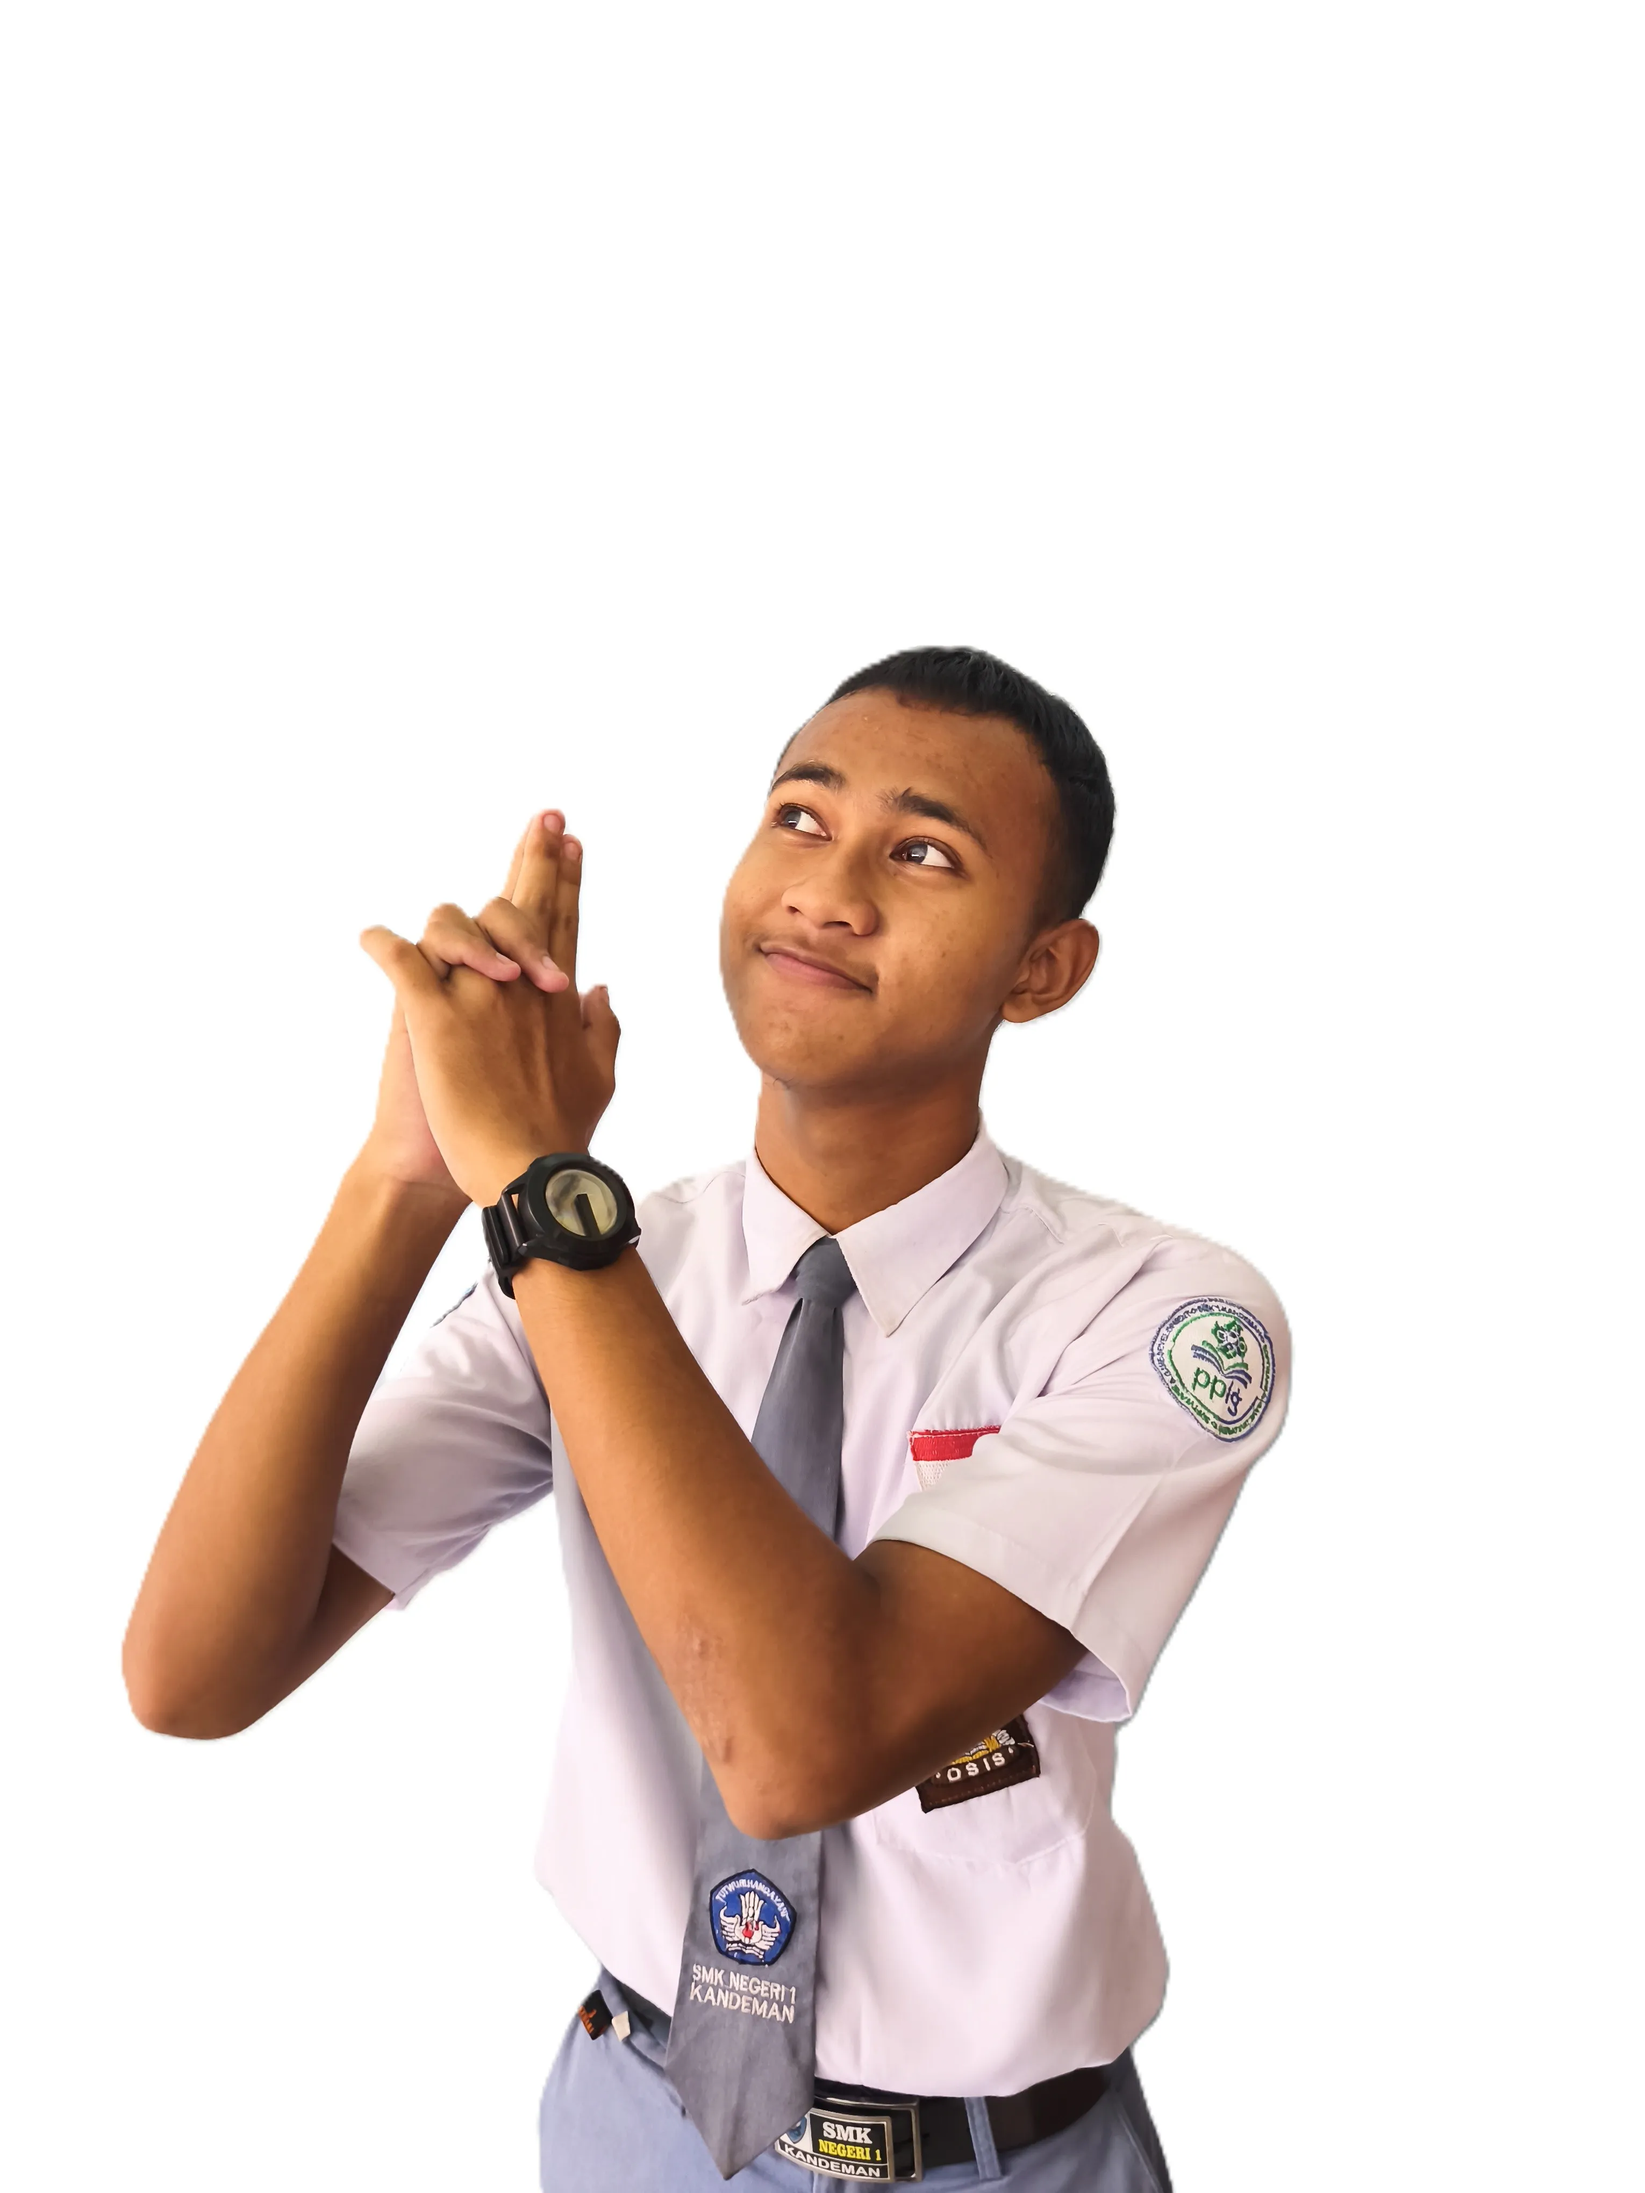
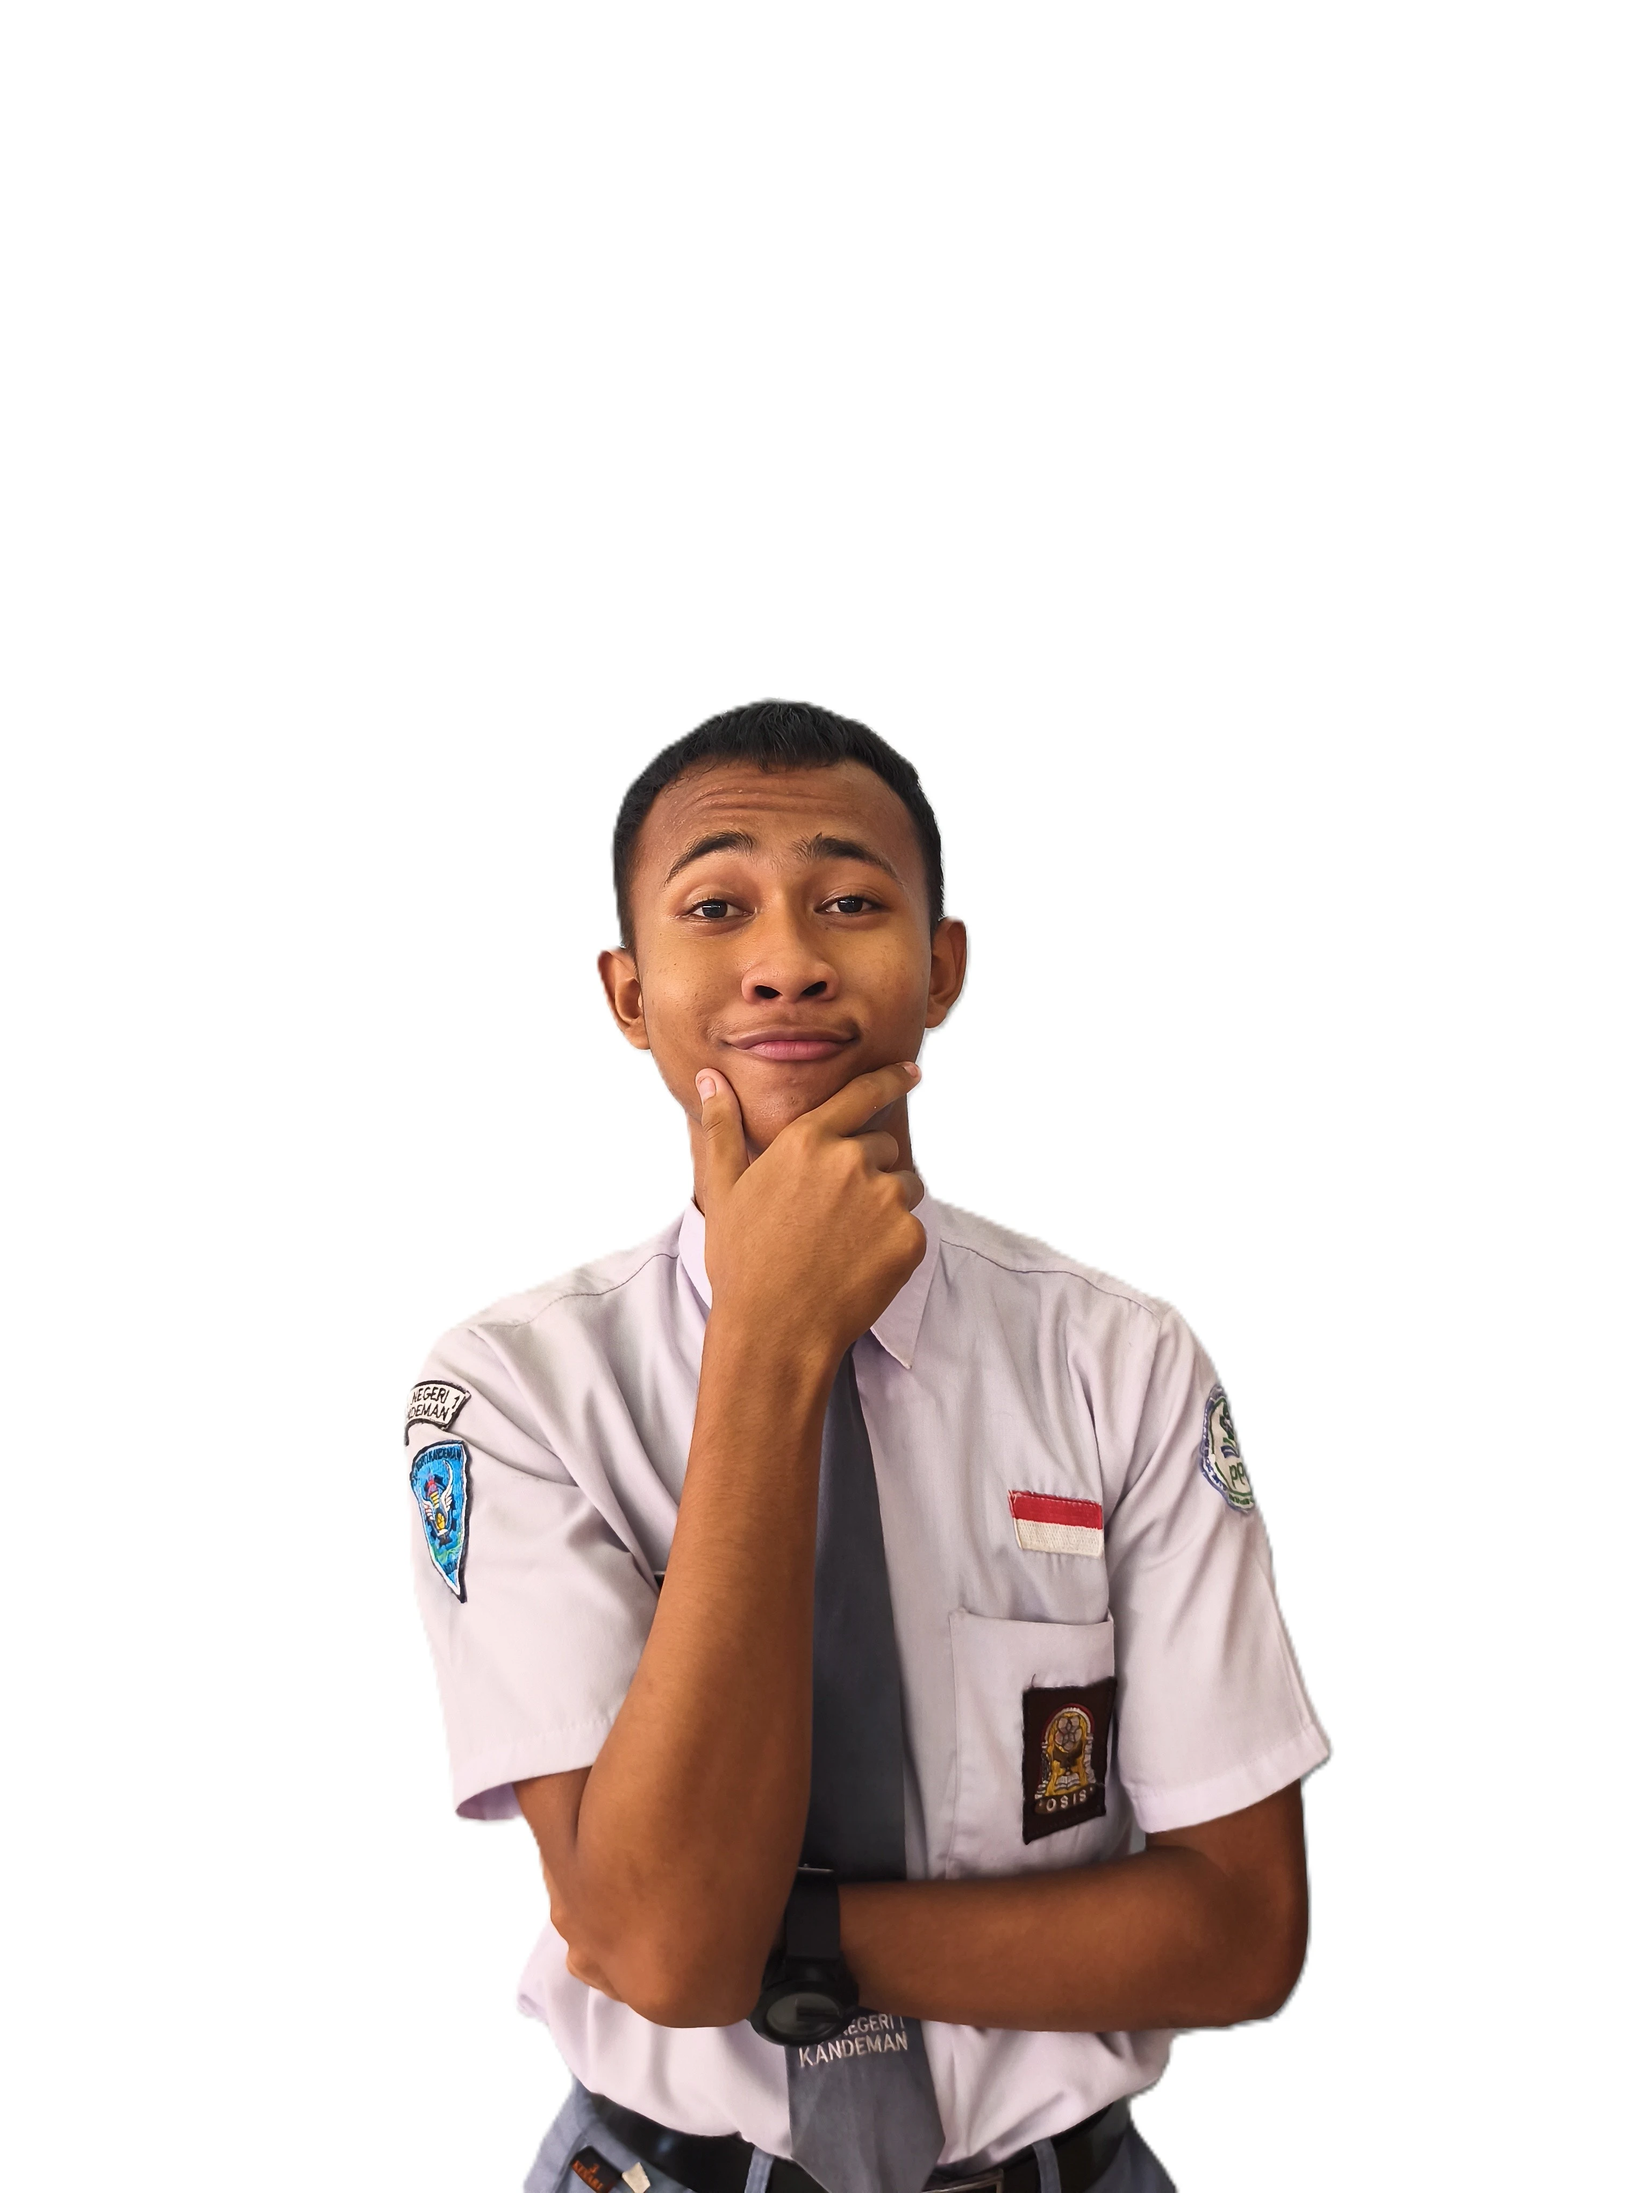
feat: Implement Ramadhan journal page with an interactive calendar, organization selection, and zoom controls.

Changed region(s): [[0.0621, 0.2801, 0.8072, 1.0]]

diff --git a/app/(root)/ramadhan/page.tsx b/app/(root)/ramadhan/page.tsx
@@ -2,7 +2,15 @@
 
 import React from 'react';
 import Link from 'next/link';
-import { ChevronLeft, ChevronRight, ClipboardCheck, Users, Plus } from 'lucide-react';
+import {
+  ChevronLeft,
+  ChevronRight,
+  ClipboardCheck,
+  Users,
+  Plus,
+  ZoomIn,
+  ZoomOut,
+} from 'lucide-react';
 import { Button } from '@/components/ui/button';
 import { Card, CardTitle, CardDescription, CardContent } from '@/components/ui/card';
 import { Input } from '@/components/ui/input';
@@ -32,10 +40,16 @@ export default function RamadhanPage() {
   const today = React.useMemo(() => new Date(), []);
   const [currentDate, setCurrentDate] = React.useState(today);
   const [org, setOrg] = React.useState<'MU' | 'NU' | null>(null);
+  const [cellSize, setCellSize] = React.useState(176);
 
   React.useEffect(() => {
     const savedOrg = localStorage.getItem('ramadhan_org') as 'MU' | 'NU' | null;
     setOrg(savedOrg || 'MU');
+
+    const savedSize = localStorage.getItem('ramadhan_calendar_size');
+    if (savedSize) {
+      setCellSize(parseInt(savedSize, 10));
+    }
   }, []);
 
   const monthStart = startOfMonth(currentDate);
@@ -49,6 +63,19 @@ export default function RamadhanPage() {
   });
 
   const weekDays = ['Min', 'Sen', 'Sel', 'Rab', 'Kam', 'Jum', 'Sab'];
+
+  const zoomIn = () =>
+    setCellSize((p) => {
+      const newSize = Math.min(p + 20, 300);
+      localStorage.setItem('ramadhan_calendar_size', newSize.toString());
+      return newSize;
+    });
+  const zoomOut = () =>
+    setCellSize((p) => {
+      const newSize = Math.max(p - 20, 80);
+      localStorage.setItem('ramadhan_calendar_size', newSize.toString());
+      return newSize;
+    });
 
   const prevMonth = () => {
     const prev = subMonths(currentDate, 1);
@@ -120,7 +147,29 @@ export default function RamadhanPage() {
                 </Tabs>
               </div>
 
-              <div className="-mb-4 flex items-center justify-end px-6 py-4">
+              <div className="-mb-4 flex items-center justify-between px-6 py-4">
+                <div className="flex items-center gap-2">
+                  <Button
+                    variant="ghost"
+                    size="icon"
+                    onClick={zoomOut}
+                    disabled={cellSize <= 80}
+                    className="h-8 w-8 text-neutral-600 hover:bg-neutral-100 disabled:opacity-30 dark:text-neutral-400 dark:hover:bg-neutral-900"
+                    title="Perkecil kalender"
+                  >
+                    <ZoomOut className="h-4 w-4" />
+                  </Button>
+                  <Button
+                    variant="ghost"
+                    size="icon"
+                    onClick={zoomIn}
+                    disabled={cellSize >= 300}
+                    className="h-8 w-8 text-neutral-600 hover:bg-neutral-100 disabled:opacity-30 dark:text-neutral-400 dark:hover:bg-neutral-900"
+                    title="Perbesar kalender"
+                  >
+                    <ZoomIn className="h-4 w-4" />
+                  </Button>
+                </div>
                 <div className="flex items-center gap-4">
                   <div className="flex items-center gap-2">
                     <Button
@@ -175,8 +224,9 @@ export default function RamadhanPage() {
                       return (
                         <div
                           key={day.toString()}
+                          style={{ minHeight: `${cellSize}px` }}
                           className={cn(
-                            'group relative h-44 border-r border-b border-neutral-200 p-3 transition-colors last:border-r-0 dark:border-neutral-800',
+                            'group relative border-r border-b border-neutral-200 p-3 transition-all duration-300 last:border-r-0 dark:border-neutral-800',
                             !isCurrentMonth && 'bg-neutral-50/30 dark:bg-neutral-900/30',
                             ramadanDay ? 'bg-orange-50/20 dark:bg-orange-950/10' : ''
                           )}
